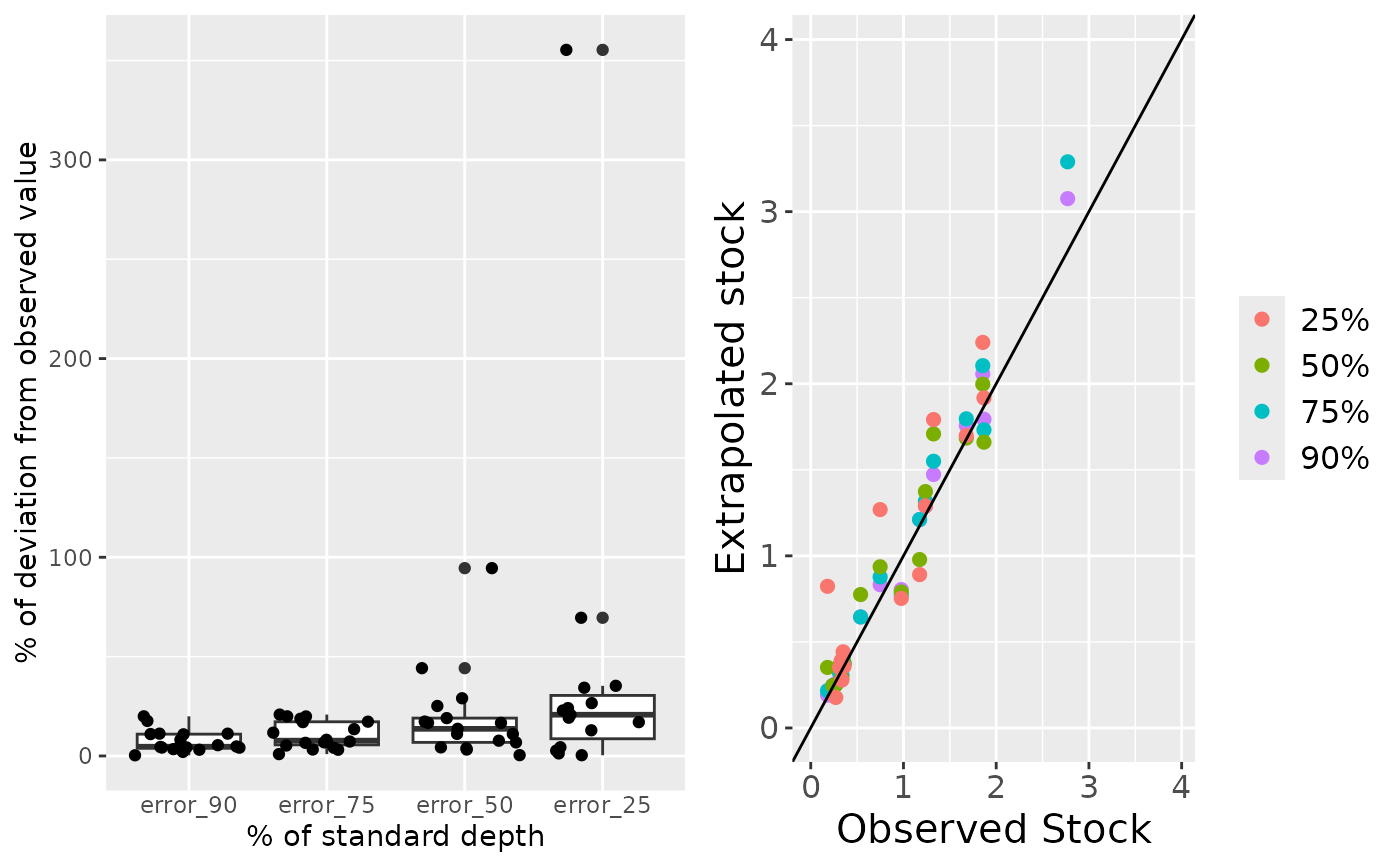
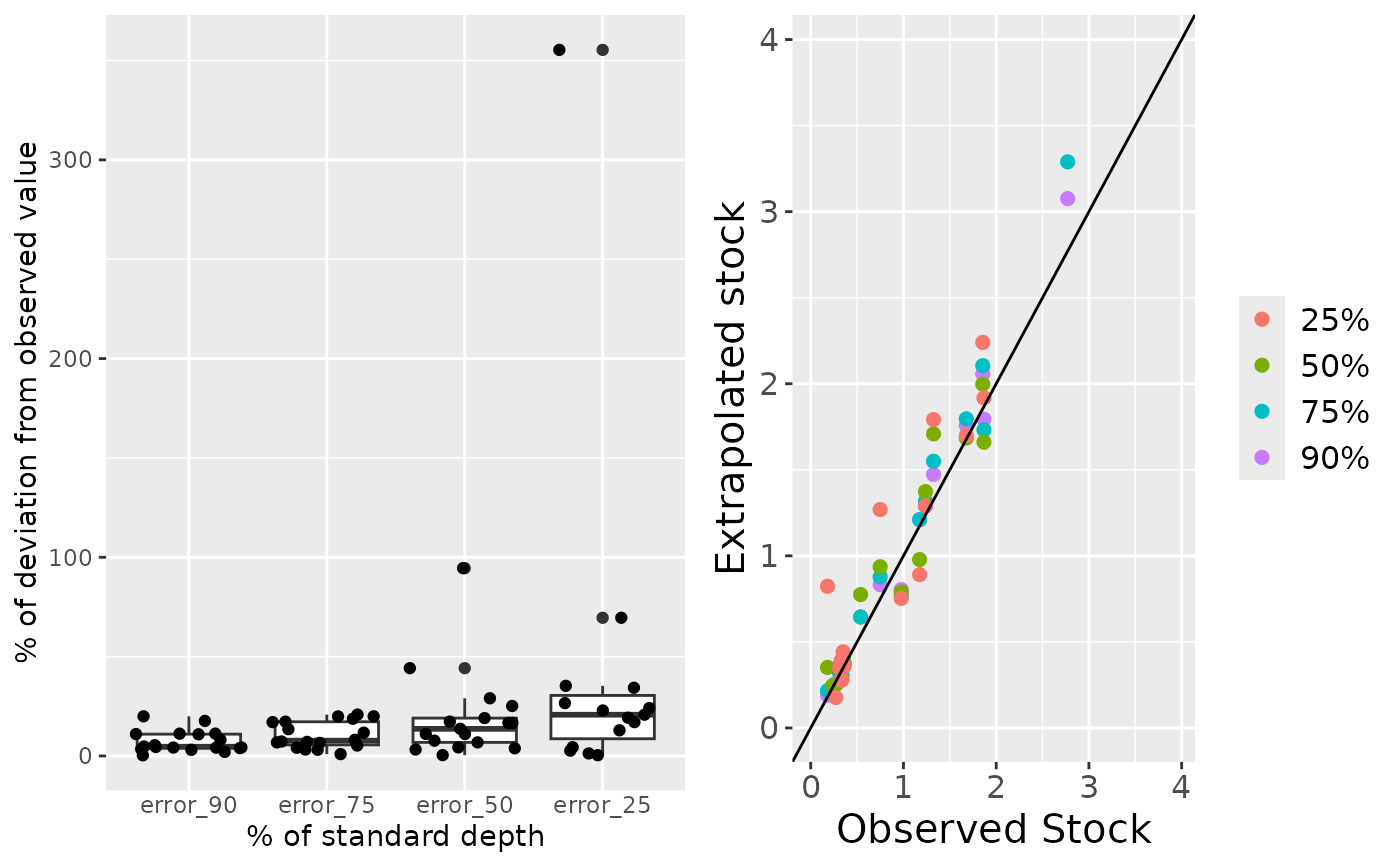
Deploying to gh-pages from @ EcologyR/BlueCarbon@a5b4d5a17c2efd462207a6bed36fc3395fff03c8 🚀

Changed region(s): [[0.0921, 0.7794, 0.4914, 0.9042], [0.2764, 0.7483, 0.3071, 0.7794]]

diff --git a/authors.html b/authors.html
@@ -1,5 +1,5 @@
 <!DOCTYPE html>
-<!-- Generated by pkgdown: do not edit by hand --><html lang="en"><head><meta http-equiv="Content-Type" content="text/html; charset=UTF-8"><meta charset="utf-8"><meta http-equiv="X-UA-Compatible" content="IE=edge"><meta name="viewport" content="width=device-width, initial-scale=1, shrink-to-fit=no"><title>Authors and Citation • BlueCarbon</title><!-- favicons --><link rel="icon" type="image/png" sizes="96x96" href="favicon-96x96.png"><link rel="icon" type="”image/svg+xml”" href="favicon.svg"><link rel="apple-touch-icon" sizes="180x180" href="apple-touch-icon.png"><link rel="icon" sizes="any" href="favicon.ico"><link rel="manifest" href="site.webmanifest"><script src="deps/jquery-3.6.0/jquery-3.6.0.min.js"></script><meta name="viewport" content="width=device-width, initial-scale=1, shrink-to-fit=no"><link href="deps/bootstrap-5.3.1/bootstrap.min.css" rel="stylesheet"><script src="deps/bootstrap-5.3.1/bootstrap.bundle.min.js"></script><link href="deps/font-awesome-6.5.2/css/all.min.css" rel="stylesheet"><link href="deps/font-awesome-6.5.2/css/v4-shims.min.css" rel="stylesheet"><script src="deps/headroom-0.11.0/headroom.min.js"></script><script src="deps/headroom-0.11.0/jQuery.headroom.min.js"></script><script src="deps/bootstrap-toc-1.0.1/bootstrap-toc.min.js"></script><script src="deps/clipboard.js-2.0.11/clipboard.min.js"></script><script src="deps/search-1.0.0/autocomplete.jquery.min.js"></script><script src="deps/search-1.0.0/fuse.min.js"></script><script src="deps/search-1.0.0/mark.min.js"></script><!-- pkgdown --><script src="pkgdown.js"></script><meta property="og:title" content="Authors and Citation"><meta property="og:image" content="https://ecologyr.github.io/BlueCarbon/logo.png"></head><body>
+<!-- Generated by pkgdown: do not edit by hand --><html lang="en"><head><meta http-equiv="Content-Type" content="text/html; charset=UTF-8"><meta charset="utf-8"><meta http-equiv="X-UA-Compatible" content="IE=edge"><meta name="viewport" content="width=device-width, initial-scale=1, shrink-to-fit=no"><title>Authors and Citation • BlueCarbon</title><!-- favicons --><link rel="icon" type="image/png" sizes="96x96" href="favicon-96x96.png"><link rel="icon" type="”image/svg+xml”" href="favicon.svg"><link rel="apple-touch-icon" sizes="180x180" href="apple-touch-icon.png"><link rel="icon" sizes="any" href="favicon.ico"><link rel="manifest" href="site.webmanifest"><script src="deps/jquery-3.6.0/jquery-3.6.0.min.js"></script><meta name="viewport" content="width=device-width, initial-scale=1, shrink-to-fit=no"><link href="deps/bootstrap-5.3.8/bootstrap.min.css" rel="stylesheet"><script src="deps/bootstrap-5.3.8/bootstrap.bundle.min.js"></script><link href="deps/font-awesome-6.5.2/css/all.min.css" rel="stylesheet"><link href="deps/font-awesome-6.5.2/css/v4-shims.min.css" rel="stylesheet"><script src="deps/headroom-0.11.0/headroom.min.js"></script><script src="deps/headroom-0.11.0/jQuery.headroom.min.js"></script><script src="deps/bootstrap-toc-1.0.1/bootstrap-toc.min.js"></script><script src="deps/clipboard.js-2.0.11/clipboard.min.js"></script><script src="deps/search-1.0.0/autocomplete.jquery.min.js"></script><script src="deps/search-1.0.0/fuse.min.js"></script><script src="deps/search-1.0.0/mark.min.js"></script><!-- pkgdown --><script src="pkgdown.js"></script><meta property="og:title" content="Authors and Citation"><meta property="og:image" content="https://ecologyr.github.io/BlueCarbon/logo.png"></head><body>
     <a href="#main" class="visually-hidden-focusable">Skip to contents</a>
 
 
@@ -66,7 +66,8 @@
       <p>Piñeiro-Juncal N, Astigarraga J, Costa V, Martins M, Rodríguez-Sánchez F (2025).
 “BlueCarbon R package: Estimation of Organic Carbon Stocks and Sequestration Rates From Soil Core Data.”
 <em>Journal of Open Source Software</em>, <b>10</b>(115), 8333.
-<a href="https://doi.org/10.21105/joss.08333" class="external-link">doi:10.21105/joss.08333</a>, <a href="https://doi.org/10.21105/joss.08333" class="external-link">https://doi.org/10.21105/joss.08333</a>.
+<a href="https://doi.org/10.21105/joss.08333" class="external-link">doi:10.21105/joss.08333</a>.
+<a href="https://doi.org/10.21105/joss.08333" class="external-link">https://doi.org/10.21105/joss.08333</a>.
 </p>
       <pre>@Article{,
   author = {Nerea Piñeiro-Juncal and Julen Astigarraga and Valentina Costa and Márcio Martins and Francisco Rodríguez-Sánchez},

diff --git a/404.html b/404.html
@@ -12,8 +12,8 @@
 <link rel="icon" sizes="any" href="https://ecologyr.github.io/BlueCarbon/favicon.ico">
 <link rel="manifest" href="https://ecologyr.github.io/BlueCarbon/site.webmanifest">
 <script src="https://ecologyr.github.io/BlueCarbon/deps/jquery-3.6.0/jquery-3.6.0.min.js"></script><meta name="viewport" content="width=device-width, initial-scale=1, shrink-to-fit=no">
-<link href="https://ecologyr.github.io/BlueCarbon/deps/bootstrap-5.3.1/bootstrap.min.css" rel="stylesheet">
-<script src="https://ecologyr.github.io/BlueCarbon/deps/bootstrap-5.3.1/bootstrap.bundle.min.js"></script><link href="https://ecologyr.github.io/BlueCarbon/deps/font-awesome-6.5.2/css/all.min.css" rel="stylesheet">
+<link href="https://ecologyr.github.io/BlueCarbon/deps/bootstrap-5.3.8/bootstrap.min.css" rel="stylesheet">
+<script src="https://ecologyr.github.io/BlueCarbon/deps/bootstrap-5.3.8/bootstrap.bundle.min.js"></script><link href="https://ecologyr.github.io/BlueCarbon/deps/font-awesome-6.5.2/css/all.min.css" rel="stylesheet">
 <link href="https://ecologyr.github.io/BlueCarbon/deps/font-awesome-6.5.2/css/v4-shims.min.css" rel="stylesheet">
 <script src="https://ecologyr.github.io/BlueCarbon/deps/headroom-0.11.0/headroom.min.js"></script><script src="https://ecologyr.github.io/BlueCarbon/deps/headroom-0.11.0/jQuery.headroom.min.js"></script><script src="https://ecologyr.github.io/BlueCarbon/deps/bootstrap-toc-1.0.1/bootstrap-toc.min.js"></script><script src="https://ecologyr.github.io/BlueCarbon/deps/clipboard.js-2.0.11/clipboard.min.js"></script><script src="https://ecologyr.github.io/BlueCarbon/deps/search-1.0.0/autocomplete.jquery.min.js"></script><script src="https://ecologyr.github.io/BlueCarbon/deps/search-1.0.0/fuse.min.js"></script><script src="https://ecologyr.github.io/BlueCarbon/deps/search-1.0.0/mark.min.js"></script><!-- pkgdown --><script src="https://ecologyr.github.io/BlueCarbon/pkgdown.js"></script><meta property="og:title" content="Page not found (404)">
 <meta property="og:image" content="https://ecologyr.github.io/BlueCarbon/logo.png">

diff --git a/articles/Tutorial.html b/articles/Tutorial.html
@@ -12,8 +12,8 @@
 <link rel="icon" sizes="any" href="../favicon.ico">
 <link rel="manifest" href="../site.webmanifest">
 <script src="../deps/jquery-3.6.0/jquery-3.6.0.min.js"></script><meta name="viewport" content="width=device-width, initial-scale=1, shrink-to-fit=no">
-<link href="../deps/bootstrap-5.3.1/bootstrap.min.css" rel="stylesheet">
-<script src="../deps/bootstrap-5.3.1/bootstrap.bundle.min.js"></script><link href="../deps/font-awesome-6.5.2/css/all.min.css" rel="stylesheet">
+<link href="../deps/bootstrap-5.3.8/bootstrap.min.css" rel="stylesheet">
+<script src="../deps/bootstrap-5.3.8/bootstrap.bundle.min.js"></script><link href="../deps/font-awesome-6.5.2/css/all.min.css" rel="stylesheet">
 <link href="../deps/font-awesome-6.5.2/css/v4-shims.min.css" rel="stylesheet">
 <script src="../deps/headroom-0.11.0/headroom.min.js"></script><script src="../deps/headroom-0.11.0/jQuery.headroom.min.js"></script><script src="../deps/bootstrap-toc-1.0.1/bootstrap-toc.min.js"></script><script src="../deps/clipboard.js-2.0.11/clipboard.min.js"></script><script src="../deps/search-1.0.0/autocomplete.jquery.min.js"></script><script src="../deps/search-1.0.0/fuse.min.js"></script><script src="../deps/search-1.0.0/mark.min.js"></script><!-- pkgdown --><script src="../pkgdown.js"></script><meta property="og:title" content="BlueCarbon Tutorial">
 </head>

diff --git a/index.html b/index.html
@@ -12,8 +12,8 @@
 <link rel="icon" sizes="any" href="favicon.ico">
 <link rel="manifest" href="site.webmanifest">
 <script src="deps/jquery-3.6.0/jquery-3.6.0.min.js"></script><meta name="viewport" content="width=device-width, initial-scale=1, shrink-to-fit=no">
-<link href="deps/bootstrap-5.3.1/bootstrap.min.css" rel="stylesheet">
-<script src="deps/bootstrap-5.3.1/bootstrap.bundle.min.js"></script><link href="deps/font-awesome-6.5.2/css/all.min.css" rel="stylesheet">
+<link href="deps/bootstrap-5.3.8/bootstrap.min.css" rel="stylesheet">
+<script src="deps/bootstrap-5.3.8/bootstrap.bundle.min.js"></script><link href="deps/font-awesome-6.5.2/css/all.min.css" rel="stylesheet">
 <link href="deps/font-awesome-6.5.2/css/v4-shims.min.css" rel="stylesheet">
 <script src="deps/headroom-0.11.0/headroom.min.js"></script><script src="deps/headroom-0.11.0/jQuery.headroom.min.js"></script><script src="deps/bootstrap-toc-1.0.1/bootstrap-toc.min.js"></script><script src="deps/clipboard.js-2.0.11/clipboard.min.js"></script><script src="deps/search-1.0.0/autocomplete.jquery.min.js"></script><script src="deps/search-1.0.0/fuse.min.js"></script><script src="deps/search-1.0.0/mark.min.js"></script><!-- pkgdown --><script src="pkgdown.js"></script><meta property="og:title" content="Estimation of Organic Carbon Stocks and Sequestration Rates from Soil Core Data">
 <meta name="description" content="Tools to estimate soil organic carbon stocks and sequestration rates in blue carbon ecosystems. BlueCarbon contains functions to estimate and correct for core compaction, estimate sample thickness, estimate organic carbon content from organic matter content, estimate organic carbon stocks and sequestration rates, and visualize the error of carbon stock extrapolation.">

diff --git a/CODE_OF_CONDUCT.html b/CODE_OF_CONDUCT.html
@@ -1,5 +1,5 @@
 <!DOCTYPE html>
-<!-- Generated by pkgdown: do not edit by hand --><html lang="en"><head><meta http-equiv="Content-Type" content="text/html; charset=UTF-8"><meta charset="utf-8"><meta http-equiv="X-UA-Compatible" content="IE=edge"><meta name="viewport" content="width=device-width, initial-scale=1, shrink-to-fit=no"><title>Contributor Covenant Code of Conduct • BlueCarbon</title><!-- favicons --><link rel="icon" type="image/png" sizes="96x96" href="favicon-96x96.png"><link rel="icon" type="”image/svg+xml”" href="favicon.svg"><link rel="apple-touch-icon" sizes="180x180" href="apple-touch-icon.png"><link rel="icon" sizes="any" href="favicon.ico"><link rel="manifest" href="site.webmanifest"><script src="deps/jquery-3.6.0/jquery-3.6.0.min.js"></script><meta name="viewport" content="width=device-width, initial-scale=1, shrink-to-fit=no"><link href="deps/bootstrap-5.3.1/bootstrap.min.css" rel="stylesheet"><script src="deps/bootstrap-5.3.1/bootstrap.bundle.min.js"></script><link href="deps/font-awesome-6.5.2/css/all.min.css" rel="stylesheet"><link href="deps/font-awesome-6.5.2/css/v4-shims.min.css" rel="stylesheet"><script src="deps/headroom-0.11.0/headroom.min.js"></script><script src="deps/headroom-0.11.0/jQuery.headroom.min.js"></script><script src="deps/bootstrap-toc-1.0.1/bootstrap-toc.min.js"></script><script src="deps/clipboard.js-2.0.11/clipboard.min.js"></script><script src="deps/search-1.0.0/autocomplete.jquery.min.js"></script><script src="deps/search-1.0.0/fuse.min.js"></script><script src="deps/search-1.0.0/mark.min.js"></script><!-- pkgdown --><script src="pkgdown.js"></script><meta property="og:title" content="Contributor Covenant Code of Conduct"><meta property="og:image" content="https://ecologyr.github.io/BlueCarbon/logo.png"></head><body>
+<!-- Generated by pkgdown: do not edit by hand --><html lang="en"><head><meta http-equiv="Content-Type" content="text/html; charset=UTF-8"><meta charset="utf-8"><meta http-equiv="X-UA-Compatible" content="IE=edge"><meta name="viewport" content="width=device-width, initial-scale=1, shrink-to-fit=no"><title>Contributor Covenant Code of Conduct • BlueCarbon</title><!-- favicons --><link rel="icon" type="image/png" sizes="96x96" href="favicon-96x96.png"><link rel="icon" type="”image/svg+xml”" href="favicon.svg"><link rel="apple-touch-icon" sizes="180x180" href="apple-touch-icon.png"><link rel="icon" sizes="any" href="favicon.ico"><link rel="manifest" href="site.webmanifest"><script src="deps/jquery-3.6.0/jquery-3.6.0.min.js"></script><meta name="viewport" content="width=device-width, initial-scale=1, shrink-to-fit=no"><link href="deps/bootstrap-5.3.8/bootstrap.min.css" rel="stylesheet"><script src="deps/bootstrap-5.3.8/bootstrap.bundle.min.js"></script><link href="deps/font-awesome-6.5.2/css/all.min.css" rel="stylesheet"><link href="deps/font-awesome-6.5.2/css/v4-shims.min.css" rel="stylesheet"><script src="deps/headroom-0.11.0/headroom.min.js"></script><script src="deps/headroom-0.11.0/jQuery.headroom.min.js"></script><script src="deps/bootstrap-toc-1.0.1/bootstrap-toc.min.js"></script><script src="deps/clipboard.js-2.0.11/clipboard.min.js"></script><script src="deps/search-1.0.0/autocomplete.jquery.min.js"></script><script src="deps/search-1.0.0/fuse.min.js"></script><script src="deps/search-1.0.0/mark.min.js"></script><!-- pkgdown --><script src="pkgdown.js"></script><meta property="og:title" content="Contributor Covenant Code of Conduct"><meta property="og:image" content="https://ecologyr.github.io/BlueCarbon/logo.png"></head><body>
     <a href="#main" class="visually-hidden-focusable">Skip to contents</a>
 
 

diff --git a/CONTRIBUTING.html b/CONTRIBUTING.html
@@ -1,5 +1,5 @@
 <!DOCTYPE html>
-<!-- Generated by pkgdown: do not edit by hand --><html lang="en"><head><meta http-equiv="Content-Type" content="text/html; charset=UTF-8"><meta charset="utf-8"><meta http-equiv="X-UA-Compatible" content="IE=edge"><meta name="viewport" content="width=device-width, initial-scale=1, shrink-to-fit=no"><title>Contributing to BlueCarbon • BlueCarbon</title><!-- favicons --><link rel="icon" type="image/png" sizes="96x96" href="favicon-96x96.png"><link rel="icon" type="”image/svg+xml”" href="favicon.svg"><link rel="apple-touch-icon" sizes="180x180" href="apple-touch-icon.png"><link rel="icon" sizes="any" href="favicon.ico"><link rel="manifest" href="site.webmanifest"><script src="deps/jquery-3.6.0/jquery-3.6.0.min.js"></script><meta name="viewport" content="width=device-width, initial-scale=1, shrink-to-fit=no"><link href="deps/bootstrap-5.3.1/bootstrap.min.css" rel="stylesheet"><script src="deps/bootstrap-5.3.1/bootstrap.bundle.min.js"></script><link href="deps/font-awesome-6.5.2/css/all.min.css" rel="stylesheet"><link href="deps/font-awesome-6.5.2/css/v4-shims.min.css" rel="stylesheet"><script src="deps/headroom-0.11.0/headroom.min.js"></script><script src="deps/headroom-0.11.0/jQuery.headroom.min.js"></script><script src="deps/bootstrap-toc-1.0.1/bootstrap-toc.min.js"></script><script src="deps/clipboard.js-2.0.11/clipboard.min.js"></script><script src="deps/search-1.0.0/autocomplete.jquery.min.js"></script><script src="deps/search-1.0.0/fuse.min.js"></script><script src="deps/search-1.0.0/mark.min.js"></script><!-- pkgdown --><script src="pkgdown.js"></script><meta property="og:title" content="Contributing to BlueCarbon"><meta property="og:image" content="https://ecologyr.github.io/BlueCarbon/logo.png"></head><body>
+<!-- Generated by pkgdown: do not edit by hand --><html lang="en"><head><meta http-equiv="Content-Type" content="text/html; charset=UTF-8"><meta charset="utf-8"><meta http-equiv="X-UA-Compatible" content="IE=edge"><meta name="viewport" content="width=device-width, initial-scale=1, shrink-to-fit=no"><title>Contributing to BlueCarbon • BlueCarbon</title><!-- favicons --><link rel="icon" type="image/png" sizes="96x96" href="favicon-96x96.png"><link rel="icon" type="”image/svg+xml”" href="favicon.svg"><link rel="apple-touch-icon" sizes="180x180" href="apple-touch-icon.png"><link rel="icon" sizes="any" href="favicon.ico"><link rel="manifest" href="site.webmanifest"><script src="deps/jquery-3.6.0/jquery-3.6.0.min.js"></script><meta name="viewport" content="width=device-width, initial-scale=1, shrink-to-fit=no"><link href="deps/bootstrap-5.3.8/bootstrap.min.css" rel="stylesheet"><script src="deps/bootstrap-5.3.8/bootstrap.bundle.min.js"></script><link href="deps/font-awesome-6.5.2/css/all.min.css" rel="stylesheet"><link href="deps/font-awesome-6.5.2/css/v4-shims.min.css" rel="stylesheet"><script src="deps/headroom-0.11.0/headroom.min.js"></script><script src="deps/headroom-0.11.0/jQuery.headroom.min.js"></script><script src="deps/bootstrap-toc-1.0.1/bootstrap-toc.min.js"></script><script src="deps/clipboard.js-2.0.11/clipboard.min.js"></script><script src="deps/search-1.0.0/autocomplete.jquery.min.js"></script><script src="deps/search-1.0.0/fuse.min.js"></script><script src="deps/search-1.0.0/mark.min.js"></script><!-- pkgdown --><script src="pkgdown.js"></script><meta property="og:title" content="Contributing to BlueCarbon"><meta property="og:image" content="https://ecologyr.github.io/BlueCarbon/logo.png"></head><body>
     <a href="#main" class="visually-hidden-focusable">Skip to contents</a>
 
 

diff --git a/LICENSE.html b/LICENSE.html
@@ -1,5 +1,5 @@
 <!DOCTYPE html>
-<!-- Generated by pkgdown: do not edit by hand --><html lang="en"><head><meta http-equiv="Content-Type" content="text/html; charset=UTF-8"><meta charset="utf-8"><meta http-equiv="X-UA-Compatible" content="IE=edge"><meta name="viewport" content="width=device-width, initial-scale=1, shrink-to-fit=no"><title>GNU General Public License • BlueCarbon</title><!-- favicons --><link rel="icon" type="image/png" sizes="96x96" href="favicon-96x96.png"><link rel="icon" type="”image/svg+xml”" href="favicon.svg"><link rel="apple-touch-icon" sizes="180x180" href="apple-touch-icon.png"><link rel="icon" sizes="any" href="favicon.ico"><link rel="manifest" href="site.webmanifest"><script src="deps/jquery-3.6.0/jquery-3.6.0.min.js"></script><meta name="viewport" content="width=device-width, initial-scale=1, shrink-to-fit=no"><link href="deps/bootstrap-5.3.1/bootstrap.min.css" rel="stylesheet"><script src="deps/bootstrap-5.3.1/bootstrap.bundle.min.js"></script><link href="deps/font-awesome-6.5.2/css/all.min.css" rel="stylesheet"><link href="deps/font-awesome-6.5.2/css/v4-shims.min.css" rel="stylesheet"><script src="deps/headroom-0.11.0/headroom.min.js"></script><script src="deps/headroom-0.11.0/jQuery.headroom.min.js"></script><script src="deps/bootstrap-toc-1.0.1/bootstrap-toc.min.js"></script><script src="deps/clipboard.js-2.0.11/clipboard.min.js"></script><script src="deps/search-1.0.0/autocomplete.jquery.min.js"></script><script src="deps/search-1.0.0/fuse.min.js"></script><script src="deps/search-1.0.0/mark.min.js"></script><!-- pkgdown --><script src="pkgdown.js"></script><meta property="og:title" content="GNU General Public License"><meta property="og:image" content="https://ecologyr.github.io/BlueCarbon/logo.png"></head><body>
+<!-- Generated by pkgdown: do not edit by hand --><html lang="en"><head><meta http-equiv="Content-Type" content="text/html; charset=UTF-8"><meta charset="utf-8"><meta http-equiv="X-UA-Compatible" content="IE=edge"><meta name="viewport" content="width=device-width, initial-scale=1, shrink-to-fit=no"><title>GNU General Public License • BlueCarbon</title><!-- favicons --><link rel="icon" type="image/png" sizes="96x96" href="favicon-96x96.png"><link rel="icon" type="”image/svg+xml”" href="favicon.svg"><link rel="apple-touch-icon" sizes="180x180" href="apple-touch-icon.png"><link rel="icon" sizes="any" href="favicon.ico"><link rel="manifest" href="site.webmanifest"><script src="deps/jquery-3.6.0/jquery-3.6.0.min.js"></script><meta name="viewport" content="width=device-width, initial-scale=1, shrink-to-fit=no"><link href="deps/bootstrap-5.3.8/bootstrap.min.css" rel="stylesheet"><script src="deps/bootstrap-5.3.8/bootstrap.bundle.min.js"></script><link href="deps/font-awesome-6.5.2/css/all.min.css" rel="stylesheet"><link href="deps/font-awesome-6.5.2/css/v4-shims.min.css" rel="stylesheet"><script src="deps/headroom-0.11.0/headroom.min.js"></script><script src="deps/headroom-0.11.0/jQuery.headroom.min.js"></script><script src="deps/bootstrap-toc-1.0.1/bootstrap-toc.min.js"></script><script src="deps/clipboard.js-2.0.11/clipboard.min.js"></script><script src="deps/search-1.0.0/autocomplete.jquery.min.js"></script><script src="deps/search-1.0.0/fuse.min.js"></script><script src="deps/search-1.0.0/mark.min.js"></script><!-- pkgdown --><script src="pkgdown.js"></script><meta property="og:title" content="GNU General Public License"><meta property="og:image" content="https://ecologyr.github.io/BlueCarbon/logo.png"></head><body>
     <a href="#main" class="visually-hidden-focusable">Skip to contents</a>
 
 

diff --git a/articles/index.html b/articles/index.html
@@ -1,5 +1,5 @@
 <!DOCTYPE html>
-<!-- Generated by pkgdown: do not edit by hand --><html lang="en"><head><meta http-equiv="Content-Type" content="text/html; charset=UTF-8"><meta charset="utf-8"><meta http-equiv="X-UA-Compatible" content="IE=edge"><meta name="viewport" content="width=device-width, initial-scale=1, shrink-to-fit=no"><title>Articles • BlueCarbon</title><!-- favicons --><link rel="icon" type="image/png" sizes="96x96" href="../favicon-96x96.png"><link rel="icon" type="”image/svg+xml”" href="../favicon.svg"><link rel="apple-touch-icon" sizes="180x180" href="../apple-touch-icon.png"><link rel="icon" sizes="any" href="../favicon.ico"><link rel="manifest" href="../site.webmanifest"><script src="../deps/jquery-3.6.0/jquery-3.6.0.min.js"></script><meta name="viewport" content="width=device-width, initial-scale=1, shrink-to-fit=no"><link href="../deps/bootstrap-5.3.1/bootstrap.min.css" rel="stylesheet"><script src="../deps/bootstrap-5.3.1/bootstrap.bundle.min.js"></script><link href="../deps/font-awesome-6.5.2/css/all.min.css" rel="stylesheet"><link href="../deps/font-awesome-6.5.2/css/v4-shims.min.css" rel="stylesheet"><script src="../deps/headroom-0.11.0/headroom.min.js"></script><script src="../deps/headroom-0.11.0/jQuery.headroom.min.js"></script><script src="../deps/bootstrap-toc-1.0.1/bootstrap-toc.min.js"></script><script src="../deps/clipboard.js-2.0.11/clipboard.min.js"></script><script src="../deps/search-1.0.0/autocomplete.jquery.min.js"></script><script src="../deps/search-1.0.0/fuse.min.js"></script><script src="../deps/search-1.0.0/mark.min.js"></script><!-- pkgdown --><script src="../pkgdown.js"></script><meta property="og:title" content="Articles"><meta property="og:image" content="https://ecologyr.github.io/BlueCarbon/logo.png"></head><body>
+<!-- Generated by pkgdown: do not edit by hand --><html lang="en"><head><meta http-equiv="Content-Type" content="text/html; charset=UTF-8"><meta charset="utf-8"><meta http-equiv="X-UA-Compatible" content="IE=edge"><meta name="viewport" content="width=device-width, initial-scale=1, shrink-to-fit=no"><title>Articles • BlueCarbon</title><!-- favicons --><link rel="icon" type="image/png" sizes="96x96" href="../favicon-96x96.png"><link rel="icon" type="”image/svg+xml”" href="../favicon.svg"><link rel="apple-touch-icon" sizes="180x180" href="../apple-touch-icon.png"><link rel="icon" sizes="any" href="../favicon.ico"><link rel="manifest" href="../site.webmanifest"><script src="../deps/jquery-3.6.0/jquery-3.6.0.min.js"></script><meta name="viewport" content="width=device-width, initial-scale=1, shrink-to-fit=no"><link href="../deps/bootstrap-5.3.8/bootstrap.min.css" rel="stylesheet"><script src="../deps/bootstrap-5.3.8/bootstrap.bundle.min.js"></script><link href="../deps/font-awesome-6.5.2/css/all.min.css" rel="stylesheet"><link href="../deps/font-awesome-6.5.2/css/v4-shims.min.css" rel="stylesheet"><script src="../deps/headroom-0.11.0/headroom.min.js"></script><script src="../deps/headroom-0.11.0/jQuery.headroom.min.js"></script><script src="../deps/bootstrap-toc-1.0.1/bootstrap-toc.min.js"></script><script src="../deps/clipboard.js-2.0.11/clipboard.min.js"></script><script src="../deps/search-1.0.0/autocomplete.jquery.min.js"></script><script src="../deps/search-1.0.0/fuse.min.js"></script><script src="../deps/search-1.0.0/mark.min.js"></script><!-- pkgdown --><script src="../pkgdown.js"></script><meta property="og:title" content="Articles"><meta property="og:image" content="https://ecologyr.github.io/BlueCarbon/logo.png"></head><body>
     <a href="#main" class="visually-hidden-focusable">Skip to contents</a>
 
 

diff --git a/news/index.html b/news/index.html
@@ -1,5 +1,5 @@
 <!DOCTYPE html>
-<!-- Generated by pkgdown: do not edit by hand --><html lang="en"><head><meta http-equiv="Content-Type" content="text/html; charset=UTF-8"><meta charset="utf-8"><meta http-equiv="X-UA-Compatible" content="IE=edge"><meta name="viewport" content="width=device-width, initial-scale=1, shrink-to-fit=no"><title>Changelog • BlueCarbon</title><!-- favicons --><link rel="icon" type="image/png" sizes="96x96" href="../favicon-96x96.png"><link rel="icon" type="”image/svg+xml”" href="../favicon.svg"><link rel="apple-touch-icon" sizes="180x180" href="../apple-touch-icon.png"><link rel="icon" sizes="any" href="../favicon.ico"><link rel="manifest" href="../site.webmanifest"><script src="../deps/jquery-3.6.0/jquery-3.6.0.min.js"></script><meta name="viewport" content="width=device-width, initial-scale=1, shrink-to-fit=no"><link href="../deps/bootstrap-5.3.1/bootstrap.min.css" rel="stylesheet"><script src="../deps/bootstrap-5.3.1/bootstrap.bundle.min.js"></script><link href="../deps/font-awesome-6.5.2/css/all.min.css" rel="stylesheet"><link href="../deps/font-awesome-6.5.2/css/v4-shims.min.css" rel="stylesheet"><script src="../deps/headroom-0.11.0/headroom.min.js"></script><script src="../deps/headroom-0.11.0/jQuery.headroom.min.js"></script><script src="../deps/bootstrap-toc-1.0.1/bootstrap-toc.min.js"></script><script src="../deps/clipboard.js-2.0.11/clipboard.min.js"></script><script src="../deps/search-1.0.0/autocomplete.jquery.min.js"></script><script src="../deps/search-1.0.0/fuse.min.js"></script><script src="../deps/search-1.0.0/mark.min.js"></script><!-- pkgdown --><script src="../pkgdown.js"></script><meta property="og:title" content="Changelog"><meta property="og:image" content="https://ecologyr.github.io/BlueCarbon/logo.png"></head><body>
+<!-- Generated by pkgdown: do not edit by hand --><html lang="en"><head><meta http-equiv="Content-Type" content="text/html; charset=UTF-8"><meta charset="utf-8"><meta http-equiv="X-UA-Compatible" content="IE=edge"><meta name="viewport" content="width=device-width, initial-scale=1, shrink-to-fit=no"><title>Changelog • BlueCarbon</title><!-- favicons --><link rel="icon" type="image/png" sizes="96x96" href="../favicon-96x96.png"><link rel="icon" type="”image/svg+xml”" href="../favicon.svg"><link rel="apple-touch-icon" sizes="180x180" href="../apple-touch-icon.png"><link rel="icon" sizes="any" href="../favicon.ico"><link rel="manifest" href="../site.webmanifest"><script src="../deps/jquery-3.6.0/jquery-3.6.0.min.js"></script><meta name="viewport" content="width=device-width, initial-scale=1, shrink-to-fit=no"><link href="../deps/bootstrap-5.3.8/bootstrap.min.css" rel="stylesheet"><script src="../deps/bootstrap-5.3.8/bootstrap.bundle.min.js"></script><link href="../deps/font-awesome-6.5.2/css/all.min.css" rel="stylesheet"><link href="../deps/font-awesome-6.5.2/css/v4-shims.min.css" rel="stylesheet"><script src="../deps/headroom-0.11.0/headroom.min.js"></script><script src="../deps/headroom-0.11.0/jQuery.headroom.min.js"></script><script src="../deps/bootstrap-toc-1.0.1/bootstrap-toc.min.js"></script><script src="../deps/clipboard.js-2.0.11/clipboard.min.js"></script><script src="../deps/search-1.0.0/autocomplete.jquery.min.js"></script><script src="../deps/search-1.0.0/fuse.min.js"></script><script src="../deps/search-1.0.0/mark.min.js"></script><!-- pkgdown --><script src="../pkgdown.js"></script><meta property="og:title" content="Changelog"><meta property="og:image" content="https://ecologyr.github.io/BlueCarbon/logo.png"></head><body>
     <a href="#main" class="visually-hidden-focusable">Skip to contents</a>
 
 

diff --git a/reference/BlueCarbon-package.html b/reference/BlueCarbon-package.html
@@ -1,5 +1,5 @@
 <!DOCTYPE html>
-<!-- Generated by pkgdown: do not edit by hand --><html lang="en"><head><meta http-equiv="Content-Type" content="text/html; charset=UTF-8"><meta charset="utf-8"><meta http-equiv="X-UA-Compatible" content="IE=edge"><meta name="viewport" content="width=device-width, initial-scale=1, shrink-to-fit=no"><title>BlueCarbon: Estimation of Organic Carbon Stocks and Sequestration Rates from Soil Core Data — BlueCarbon-package • BlueCarbon</title><!-- favicons --><link rel="icon" type="image/png" sizes="96x96" href="../favicon-96x96.png"><link rel="icon" type="”image/svg+xml”" href="../favicon.svg"><link rel="apple-touch-icon" sizes="180x180" href="../apple-touch-icon.png"><link rel="icon" sizes="any" href="../favicon.ico"><link rel="manifest" href="../site.webmanifest"><script src="../deps/jquery-3.6.0/jquery-3.6.0.min.js"></script><meta name="viewport" content="width=device-width, initial-scale=1, shrink-to-fit=no"><link href="../deps/bootstrap-5.3.1/bootstrap.min.css" rel="stylesheet"><script src="../deps/bootstrap-5.3.1/bootstrap.bundle.min.js"></script><link href="../deps/font-awesome-6.5.2/css/all.min.css" rel="stylesheet"><link href="../deps/font-awesome-6.5.2/css/v4-shims.min.css" rel="stylesheet"><script src="../deps/headroom-0.11.0/headroom.min.js"></script><script src="../deps/headroom-0.11.0/jQuery.headroom.min.js"></script><script src="../deps/bootstrap-toc-1.0.1/bootstrap-toc.min.js"></script><script src="../deps/clipboard.js-2.0.11/clipboard.min.js"></script><script src="../deps/search-1.0.0/autocomplete.jquery.min.js"></script><script src="../deps/search-1.0.0/fuse.min.js"></script><script src="../deps/search-1.0.0/mark.min.js"></script><!-- pkgdown --><script src="../pkgdown.js"></script><meta property="og:title" content="BlueCarbon: Estimation of Organic Carbon Stocks and Sequestration Rates from Soil Core Data — BlueCarbon-package"><meta name="description" content="
+<!-- Generated by pkgdown: do not edit by hand --><html lang="en"><head><meta http-equiv="Content-Type" content="text/html; charset=UTF-8"><meta charset="utf-8"><meta http-equiv="X-UA-Compatible" content="IE=edge"><meta name="viewport" content="width=device-width, initial-scale=1, shrink-to-fit=no"><title>BlueCarbon: Estimation of Organic Carbon Stocks and Sequestration Rates from Soil Core Data — BlueCarbon-package • BlueCarbon</title><!-- favicons --><link rel="icon" type="image/png" sizes="96x96" href="../favicon-96x96.png"><link rel="icon" type="”image/svg+xml”" href="../favicon.svg"><link rel="apple-touch-icon" sizes="180x180" href="../apple-touch-icon.png"><link rel="icon" sizes="any" href="../favicon.ico"><link rel="manifest" href="../site.webmanifest"><script src="../deps/jquery-3.6.0/jquery-3.6.0.min.js"></script><meta name="viewport" content="width=device-width, initial-scale=1, shrink-to-fit=no"><link href="../deps/bootstrap-5.3.8/bootstrap.min.css" rel="stylesheet"><script src="../deps/bootstrap-5.3.8/bootstrap.bundle.min.js"></script><link href="../deps/font-awesome-6.5.2/css/all.min.css" rel="stylesheet"><link href="../deps/font-awesome-6.5.2/css/v4-shims.min.css" rel="stylesheet"><script src="../deps/headroom-0.11.0/headroom.min.js"></script><script src="../deps/headroom-0.11.0/jQuery.headroom.min.js"></script><script src="../deps/bootstrap-toc-1.0.1/bootstrap-toc.min.js"></script><script src="../deps/clipboard.js-2.0.11/clipboard.min.js"></script><script src="../deps/search-1.0.0/autocomplete.jquery.min.js"></script><script src="../deps/search-1.0.0/fuse.min.js"></script><script src="../deps/search-1.0.0/mark.min.js"></script><!-- pkgdown --><script src="../pkgdown.js"></script><meta property="og:title" content="BlueCarbon: Estimation of Organic Carbon Stocks and Sequestration Rates from Soil Core Data — BlueCarbon-package"><meta name="description" content="
 Tools to estimate soil organic carbon stocks and sequestration rates in blue carbon ecosystems. 'BlueCarbon' contains functions to estimate and correct for core compaction, estimate sample thickness, estimate organic carbon content from organic matter content, estimate organic carbon stocks and sequestration rates, and visualize the error of carbon stock extrapolation."><meta property="og:description" content="
 Tools to estimate soil organic carbon stocks and sequestration rates in blue carbon ecosystems. 'BlueCarbon' contains functions to estimate and correct for core compaction, estimate sample thickness, estimate organic carbon content from organic matter content, estimate organic carbon stocks and sequestration rates, and visualize the error of carbon stock extrapolation."><meta property="og:image" content="https://ecologyr.github.io/BlueCarbon/logo.png"></head><body>
     <a href="#main" class="visually-hidden-focusable">Skip to contents</a>

diff --git a/reference/bluecarbon_data.html b/reference/bluecarbon_data.html
@@ -1,5 +1,5 @@
 <!DOCTYPE html>
-<!-- Generated by pkgdown: do not edit by hand --><html lang="en"><head><meta http-equiv="Content-Type" content="text/html; charset=UTF-8"><meta charset="utf-8"><meta http-equiv="X-UA-Compatible" content="IE=edge"><meta name="viewport" content="width=device-width, initial-scale=1, shrink-to-fit=no"><title>Dataframe containing geochemical data from blue carbon soil cores — bluecarbon_data • BlueCarbon</title><!-- favicons --><link rel="icon" type="image/png" sizes="96x96" href="../favicon-96x96.png"><link rel="icon" type="”image/svg+xml”" href="../favicon.svg"><link rel="apple-touch-icon" sizes="180x180" href="../apple-touch-icon.png"><link rel="icon" sizes="any" href="../favicon.ico"><link rel="manifest" href="../site.webmanifest"><script src="../deps/jquery-3.6.0/jquery-3.6.0.min.js"></script><meta name="viewport" content="width=device-width, initial-scale=1, shrink-to-fit=no"><link href="../deps/bootstrap-5.3.1/bootstrap.min.css" rel="stylesheet"><script src="../deps/bootstrap-5.3.1/bootstrap.bundle.min.js"></script><link href="../deps/font-awesome-6.5.2/css/all.min.css" rel="stylesheet"><link href="../deps/font-awesome-6.5.2/css/v4-shims.min.css" rel="stylesheet"><script src="../deps/headroom-0.11.0/headroom.min.js"></script><script src="../deps/headroom-0.11.0/jQuery.headroom.min.js"></script><script src="../deps/bootstrap-toc-1.0.1/bootstrap-toc.min.js"></script><script src="../deps/clipboard.js-2.0.11/clipboard.min.js"></script><script src="../deps/search-1.0.0/autocomplete.jquery.min.js"></script><script src="../deps/search-1.0.0/fuse.min.js"></script><script src="../deps/search-1.0.0/mark.min.js"></script><!-- pkgdown --><script src="../pkgdown.js"></script><meta property="og:title" content="Dataframe containing geochemical data from blue carbon soil cores — bluecarbon_data"><meta name="description" content="Example dataset of geochemical data from seagrass, salt marsh and mangroves
+<!-- Generated by pkgdown: do not edit by hand --><html lang="en"><head><meta http-equiv="Content-Type" content="text/html; charset=UTF-8"><meta charset="utf-8"><meta http-equiv="X-UA-Compatible" content="IE=edge"><meta name="viewport" content="width=device-width, initial-scale=1, shrink-to-fit=no"><title>Dataframe containing geochemical data from blue carbon soil cores — bluecarbon_data • BlueCarbon</title><!-- favicons --><link rel="icon" type="image/png" sizes="96x96" href="../favicon-96x96.png"><link rel="icon" type="”image/svg+xml”" href="../favicon.svg"><link rel="apple-touch-icon" sizes="180x180" href="../apple-touch-icon.png"><link rel="icon" sizes="any" href="../favicon.ico"><link rel="manifest" href="../site.webmanifest"><script src="../deps/jquery-3.6.0/jquery-3.6.0.min.js"></script><meta name="viewport" content="width=device-width, initial-scale=1, shrink-to-fit=no"><link href="../deps/bootstrap-5.3.8/bootstrap.min.css" rel="stylesheet"><script src="../deps/bootstrap-5.3.8/bootstrap.bundle.min.js"></script><link href="../deps/font-awesome-6.5.2/css/all.min.css" rel="stylesheet"><link href="../deps/font-awesome-6.5.2/css/v4-shims.min.css" rel="stylesheet"><script src="../deps/headroom-0.11.0/headroom.min.js"></script><script src="../deps/headroom-0.11.0/jQuery.headroom.min.js"></script><script src="../deps/bootstrap-toc-1.0.1/bootstrap-toc.min.js"></script><script src="../deps/clipboard.js-2.0.11/clipboard.min.js"></script><script src="../deps/search-1.0.0/autocomplete.jquery.min.js"></script><script src="../deps/search-1.0.0/fuse.min.js"></script><script src="../deps/search-1.0.0/mark.min.js"></script><!-- pkgdown --><script src="../pkgdown.js"></script><meta property="og:title" content="Dataframe containing geochemical data from blue carbon soil cores — bluecarbon_data"><meta name="description" content="Example dataset of geochemical data from seagrass, salt marsh and mangroves
 soil cores. It does not contain real data. All variables needed to estimate
 organic carbon stocks and fluxes are included. Different cores are provided,
 one below the other, and samples from the same core are grouped together and

diff --git a/reference/core_comp.html b/reference/core_comp.html
@@ -1,5 +1,5 @@
 <!DOCTYPE html>
-<!-- Generated by pkgdown: do not edit by hand --><html lang="en"><head><meta http-equiv="Content-Type" content="text/html; charset=UTF-8"><meta charset="utf-8"><meta http-equiv="X-UA-Compatible" content="IE=edge"><meta name="viewport" content="width=device-width, initial-scale=1, shrink-to-fit=no"><title>Dataframe containing field measurements of soil cores to estimate compaction caused by core collection. — core_comp • BlueCarbon</title><!-- favicons --><link rel="icon" type="image/png" sizes="96x96" href="../favicon-96x96.png"><link rel="icon" type="”image/svg+xml”" href="../favicon.svg"><link rel="apple-touch-icon" sizes="180x180" href="../apple-touch-icon.png"><link rel="icon" sizes="any" href="../favicon.ico"><link rel="manifest" href="../site.webmanifest"><script src="../deps/jquery-3.6.0/jquery-3.6.0.min.js"></script><meta name="viewport" content="width=device-width, initial-scale=1, shrink-to-fit=no"><link href="../deps/bootstrap-5.3.1/bootstrap.min.css" rel="stylesheet"><script src="../deps/bootstrap-5.3.1/bootstrap.bundle.min.js"></script><link href="../deps/font-awesome-6.5.2/css/all.min.css" rel="stylesheet"><link href="../deps/font-awesome-6.5.2/css/v4-shims.min.css" rel="stylesheet"><script src="../deps/headroom-0.11.0/headroom.min.js"></script><script src="../deps/headroom-0.11.0/jQuery.headroom.min.js"></script><script src="../deps/bootstrap-toc-1.0.1/bootstrap-toc.min.js"></script><script src="../deps/clipboard.js-2.0.11/clipboard.min.js"></script><script src="../deps/search-1.0.0/autocomplete.jquery.min.js"></script><script src="../deps/search-1.0.0/fuse.min.js"></script><script src="../deps/search-1.0.0/mark.min.js"></script><!-- pkgdown --><script src="../pkgdown.js"></script><meta property="og:title" content="Dataframe containing field measurements of soil cores to estimate compaction caused by core collection. — core_comp"><meta name="description" content="Example dataset of field measurements of cores collected by percussion.
+<!-- Generated by pkgdown: do not edit by hand --><html lang="en"><head><meta http-equiv="Content-Type" content="text/html; charset=UTF-8"><meta charset="utf-8"><meta http-equiv="X-UA-Compatible" content="IE=edge"><meta name="viewport" content="width=device-width, initial-scale=1, shrink-to-fit=no"><title>Dataframe containing field measurements of soil cores to estimate compaction caused by core collection. — core_comp • BlueCarbon</title><!-- favicons --><link rel="icon" type="image/png" sizes="96x96" href="../favicon-96x96.png"><link rel="icon" type="”image/svg+xml”" href="../favicon.svg"><link rel="apple-touch-icon" sizes="180x180" href="../apple-touch-icon.png"><link rel="icon" sizes="any" href="../favicon.ico"><link rel="manifest" href="../site.webmanifest"><script src="../deps/jquery-3.6.0/jquery-3.6.0.min.js"></script><meta name="viewport" content="width=device-width, initial-scale=1, shrink-to-fit=no"><link href="../deps/bootstrap-5.3.8/bootstrap.min.css" rel="stylesheet"><script src="../deps/bootstrap-5.3.8/bootstrap.bundle.min.js"></script><link href="../deps/font-awesome-6.5.2/css/all.min.css" rel="stylesheet"><link href="../deps/font-awesome-6.5.2/css/v4-shims.min.css" rel="stylesheet"><script src="../deps/headroom-0.11.0/headroom.min.js"></script><script src="../deps/headroom-0.11.0/jQuery.headroom.min.js"></script><script src="../deps/bootstrap-toc-1.0.1/bootstrap-toc.min.js"></script><script src="../deps/clipboard.js-2.0.11/clipboard.min.js"></script><script src="../deps/search-1.0.0/autocomplete.jquery.min.js"></script><script src="../deps/search-1.0.0/fuse.min.js"></script><script src="../deps/search-1.0.0/mark.min.js"></script><!-- pkgdown --><script src="../pkgdown.js"></script><meta property="og:title" content="Dataframe containing field measurements of soil cores to estimate compaction caused by core collection. — core_comp"><meta name="description" content="Example dataset of field measurements of cores collected by percussion.
 All variables needed to estimate core compaction are included.
 The 'core' ID is the same as in bluecarbon_data. 'sampler_length' is the length
 of the tube or sampler introduced in the soil from top to bottom.